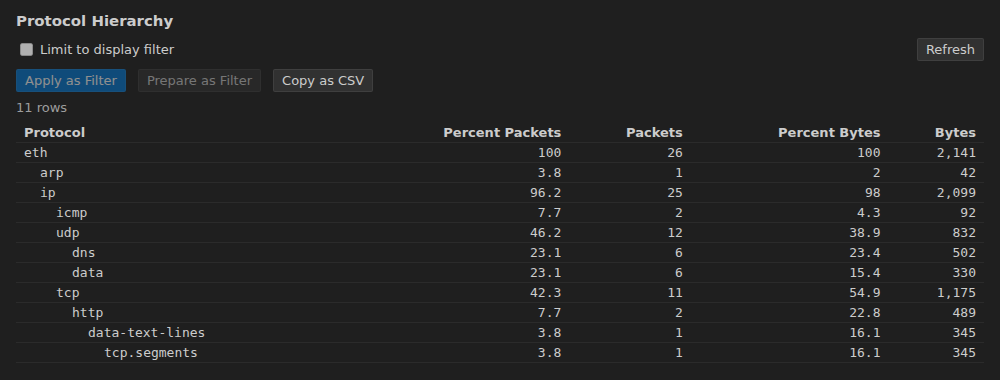
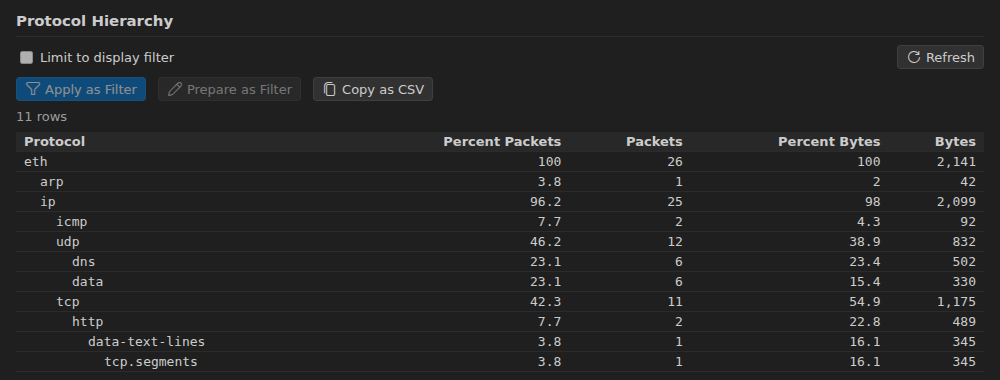
Docs and screenshots for the panels' new look and row menus
Claude-Session: https://claude.ai/code/session_01SNBgFKKXN7HF4mNJjCzgic

diff --git a/CLAUDE.md b/CLAUDE.md
@@ -182,13 +182,16 @@ wireshark`, `C:\Program Files\Wireshark` added to PATH; tried three times,
 - `src/webview/` plain JS/CSS/HTML (no build step). `lib.js` = pure helpers
   shared with Node tests (a classic script, `window.PcapLib`, like the panels'
   scripts and `worldmap.js`, the Endpoints map's land outline that
-  `scripts/world-map.mjs` generates from world-atlas); `main.js` = the editor's entry, an ES module (`<script
+  `scripts/world-map.mjs` generates from world-atlas); `menus.js` (classic,
+  `window.PcapMenus`: the context-menu engine, loaded by the editor and every
+  panel) and `panelkit.js` (classic, `window.PcapPanel`, panels only: icon
+  buttons, row menus); `main.js` = the editor's entry, an ES module (`<script
 type="module" nonce>`: imports inherit the nonce, and VS Code's resource
   server allows the CORS fetch) that imports `viewer/*.js`, one module per
   part of the UI (`core` = shared state, constants, element lookups and
   rpc, and imports nothing, so it is evaluated first; `host`, `list`,
   `columns`, `selection`, `detail`, `diagram`, `filterbar`, `autocomplete`,
-  `navigation`, `menu` (the context-menu engine), `contextmenu`,
+  `navigation`, `menu` (menus.js plus key bindings), `contextmenu`,
   `commandmenu`, `toolbar`, `status`…). Function declarations make the cycles
   between modules safe; top-level code only touches `core` and its own
   module. Shared JSDoc types live in `globals.d.ts`. Type-checked via JSDoc +
@@ -246,7 +249,8 @@ plugins` and the plugin folders), `decryption.py` (decryption keys and
   `mixed.pcapng` fixture that `generate.py` writes), `walkthrough/*.md` (the
   walkthrough's pages) and `screenshots/` (README only, not packaged).
 - `scripts/` release helper (`release.mjs`, tests in `test/scripts`), icon and
-  screenshot renderers. Not packaged.
+  screenshot renderers, `themes.js` (VS Code's Dark Modern, Light Modern and
+  Dark High Contrast as CSS variables, for screenshots). Not packaged.
 - `test/backend` pytest; `test/backend/acceptance` pytest-bdd scenarios
   (`features/*.feature` = brief's acceptance criteria against the backend,
   steps in its `conftest.py`, feature tag `@tshark` → skip without tshark,
@@ -2017,8 +2021,12 @@ stream, sessionId}`. The query stays short: expert rows (sanitized by
   ← on them has no heading to go to). The filter bar wraps (`flex-wrap`,
   `#filter-field` 14em minimum), so on a narrow editor ☰ goes to a second
   line instead of squeezing the field (e2e test at 320/480/800 px).
-- **Context menus** (`viewer/menu.js`; `contextmenu.js` builds the row and
-  tree menus, `header.js` the header's, `detail.js` the bytes pane's):
+- **Context menus** (the engine is `menus.js`, `window.PcapMenus {show,
+hide, isOpen}`, a classic script since 0.21.0 so the panels share it; its
+  styles are in base.css; `viewer/menu.js` wraps it and adds `commandKeys`/
+  `viewerKeys`; `contextmenu.js` builds the row and tree menus, `header.js`
+  the header's, `detail.js` the bytes pane's; the root `#context-menu` is
+  created when a page has none):
   `showMenu(x, y, entries)` with `MenuItem`s `{label, icon, hint, keys,
 action (null = disabled), checked, children, title}` and `"-"`
   separators (the old `[label, action, checked]` tuples still work). The
@@ -2045,7 +2053,20 @@ action (null = disabled), checked, children, title}` and `"-"`
   (button 0): the selected row's or node's menu opens below it. The
   header menu sorts (`setSort`), and its columns are a _Columns ›_
   submenu of checkboxes. e2e helpers: `pickMenu(...labels)` and
-  `menuLabels(level)`.
+  `menuLabels(level)` (the panel test has page-taking versions).
+  **Panels** (`panelkit.js`): `withIcon(button, codicon)` (class `with-icon`;
+  a label changed later must keep the icon: `replaceChildren(icon, text)`),
+  `rowMenu(container, {rows, select, entries})`: right-click selects the row
+  then opens `entries(row, cell)` (the row as drawn after selecting, since
+  VoIP redraws its tables), Shift+F10 / the menu key open the selected row's
+  (handled on keydown, the following native event ignored, as in the viewer).
+  Statistics rows: Apply/Prepare as Filter › (`lib.filterChoices` with the
+  panel's `state.filter`, the capture's filter when it opened), Go to Packet
+  N, Ask Copilot for expert rows, Copy › value/row/filter/table as CSV;
+  Export Objects: Go to Packet, Save…, Copy ›; VoIP calls and streams: their
+  toolbar's enabled buttons (`b.click()`), Copy ›. Their hosts handle `copy`.
+  `PCAP_SCREENSHOTS=<dir>` (and `PCAP_SCREENSHOTS_THEME`) makes the panel
+  e2e test write every panel as its test left it, themed.
 - **Editor title bar** (package.json `menus["editor/title"]`, `submenus`):
   Start Capture (Stop while `pcapViewer.capturing`), Find Packet, Follow
   Stream, the `pcapViewer.statisticsMenu` submenu (every PCAP Statistics
@@ -2228,3 +2249,4 @@ Files with ring buffers, saved capture filters and the capture report: 0.18.0.
 Then H.323, MGCP and IAX2 calls in the VoIP panel: 0.19.0.
 Then context menus with submenus, a reorganised ☰ menu, editor title bar
 actions, a filter field and toolbar, list density and status bar items: 0.20.0.
+Then the panels in the same style, with row menus, and column dividers.

diff --git a/README.md b/README.md
@@ -138,7 +138,8 @@ registered under its name in lower case).
   _Conversation Filter ›_, _Colorize Conversation ›_, _Follow ›_ (the streams
   that packet is part of), _Copy ›_ and more, with icons and key bindings.
   What doesn't apply to the packet isn't listed. `Shift+F10` or the menu key
-  opens them from the keyboard.
+  opens them from the keyboard. The panels' tables (statistics, Export
+  Objects, VoIP calls and streams) have row menus too.
 
   ![The packet list's menu: Follow open on an HTTP packet, offering its TCP and HTTP streams and the TCP stream graph](media/screenshots/menus.png)
 
@@ -198,7 +199,9 @@ registered under its name in lower case).
 ### Statistics and graphs
 
 Each report opens in a panel beside the capture, can be limited to the current
-filter, and its rows apply or prepare the matching display filter.
+filter, and its rows apply or prepare the matching display filter: right-click
+a row for _Apply as Filter ›_ and _Prepare as Filter ›_ (alone or combined
+with the capture's filter), _Go to Packet_ and _Copy ›_.
 
 - Conversations, Endpoints, Protocol Hierarchy, I/O Graph, Expert Information,
   Capture File Properties. The status bar shows the capture's most severe

diff --git a/CHANGELOG.md b/CHANGELOG.md
@@ -7,6 +7,25 @@ commit) that made it. The format follows
 
 ## Unreleased
 
+### Added
+
+- Right-click menus in the panels: statistics rows (_Apply as Filter ›_ and
+  _Prepare as Filter ›_ combined with the capture's filter, _Go to Packet_,
+  _Copy ›_), Export Objects and the VoIP calls and streams; Shift+F10 or the
+  menu key opens the selected row's. [c32bf02] [43a2bb1]
+
+### Changed
+
+- The panels look like the viewer: icons on every button, rounder buttons and
+  fields, VS Code-style section headings and table headers. [c32bf02]
+  [43a2bb1]
+- The packet list's header shows where to drag to resize a column, and the
+  selected row and field have rounded corners. [21dbb84]
+
+[c32bf02]: https://github.com/DenPaz/vsc_pcap_viewer/commit/c32bf02
+[43a2bb1]: https://github.com/DenPaz/vsc_pcap_viewer/commit/43a2bb1
+[21dbb84]: https://github.com/DenPaz/vsc_pcap_viewer/commit/21dbb84
+
 ## 0.20.0 — 2026-10-23
 
 ### Added
